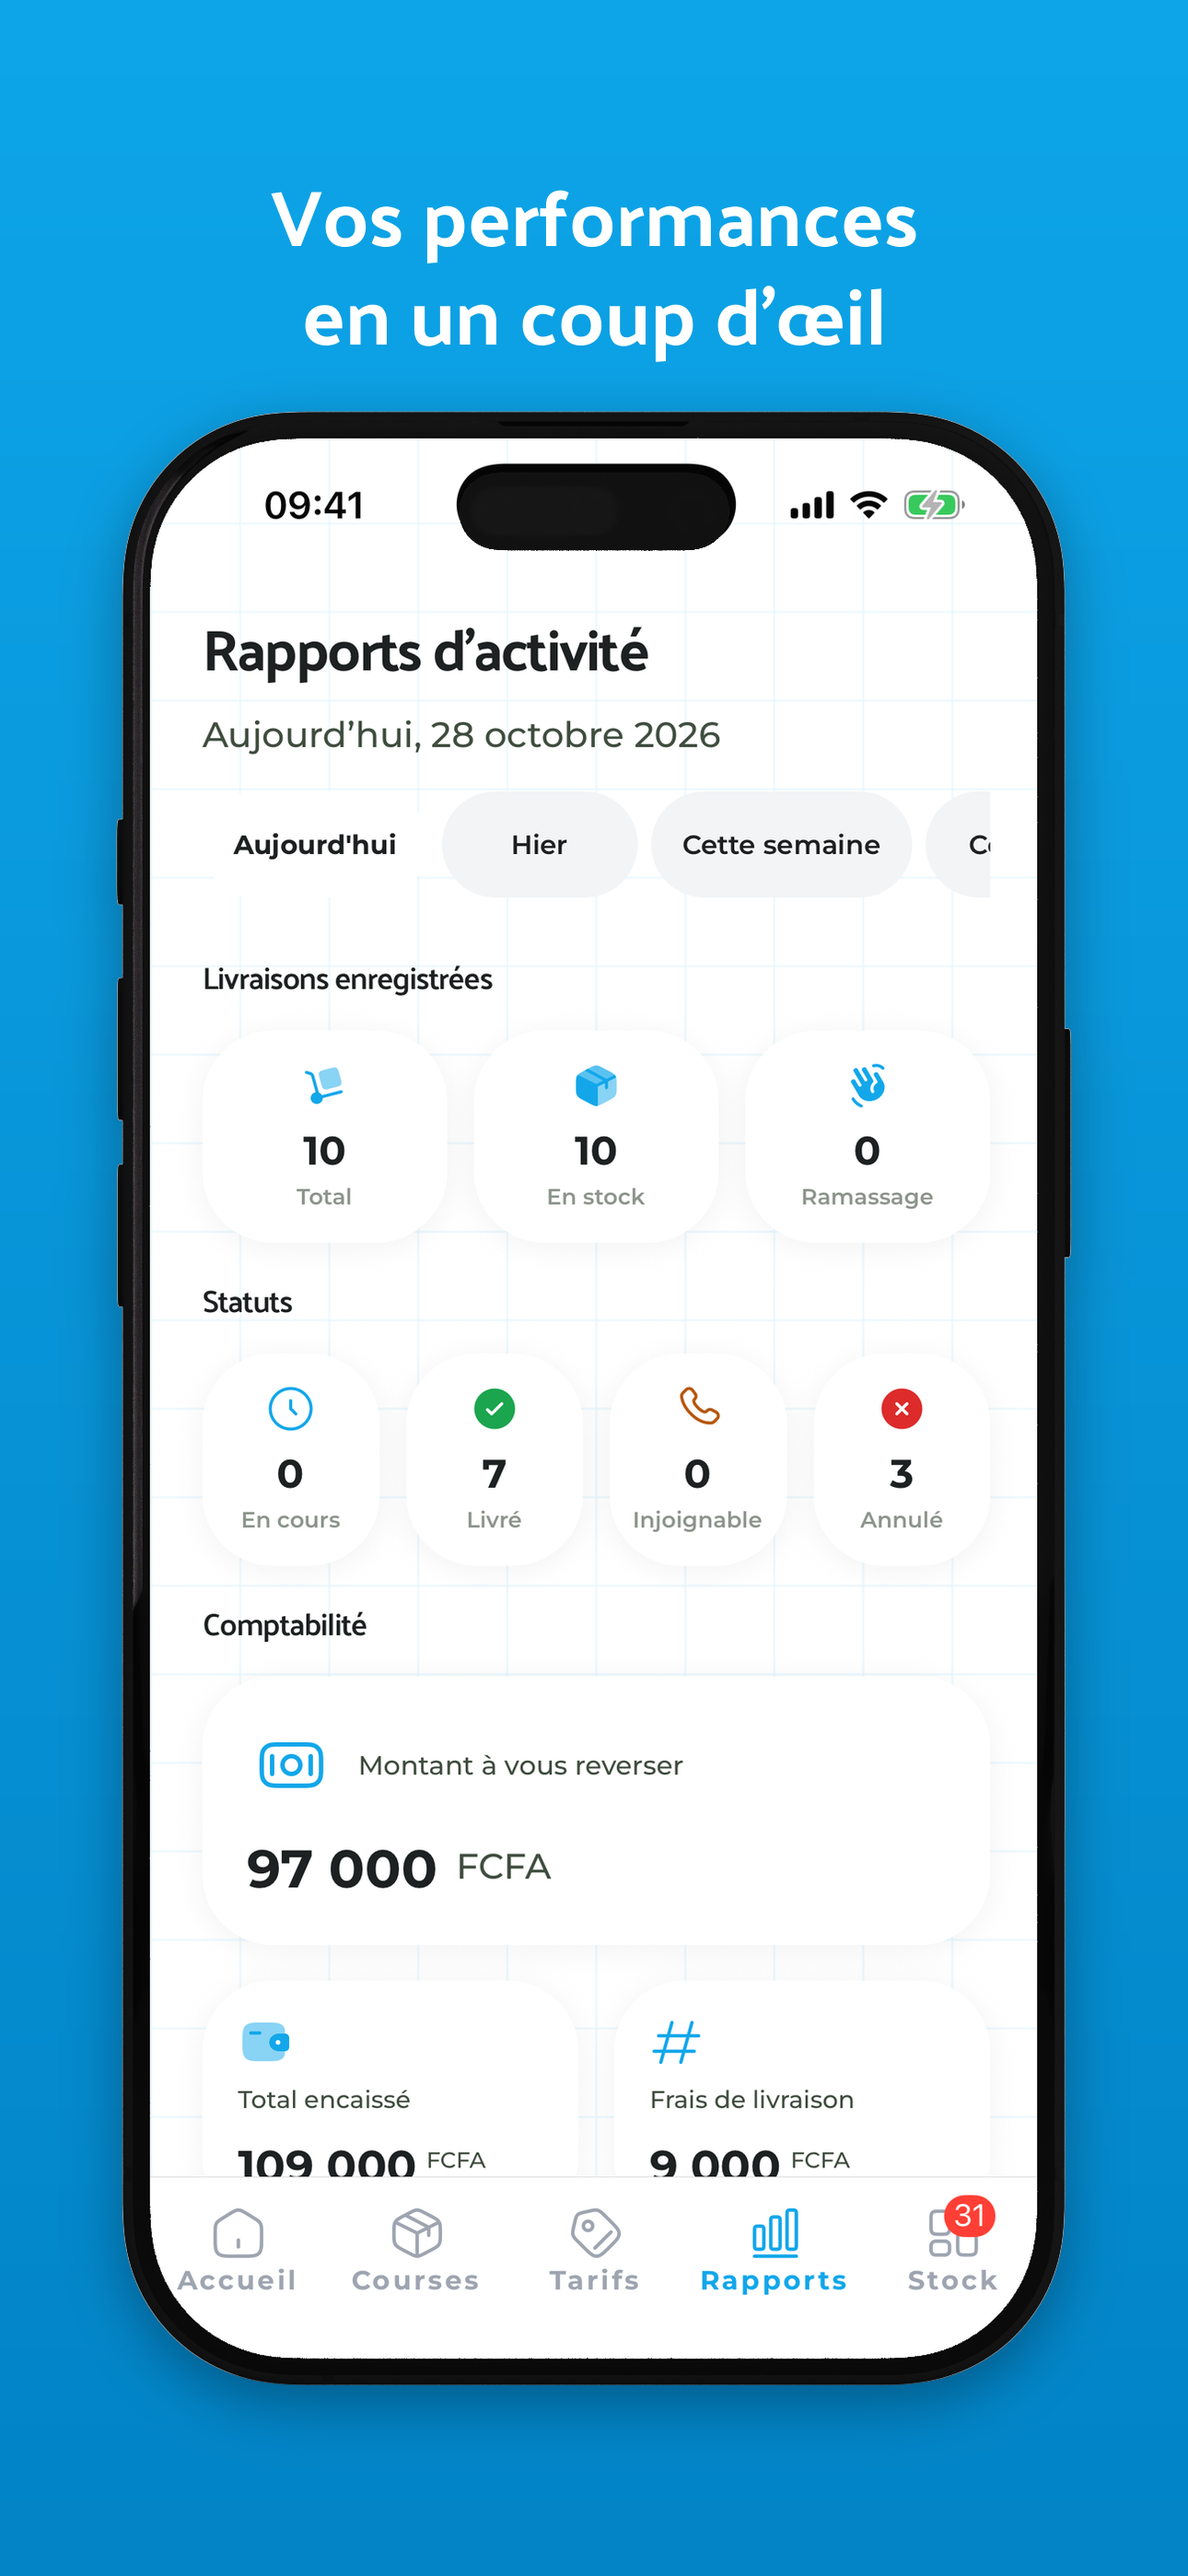
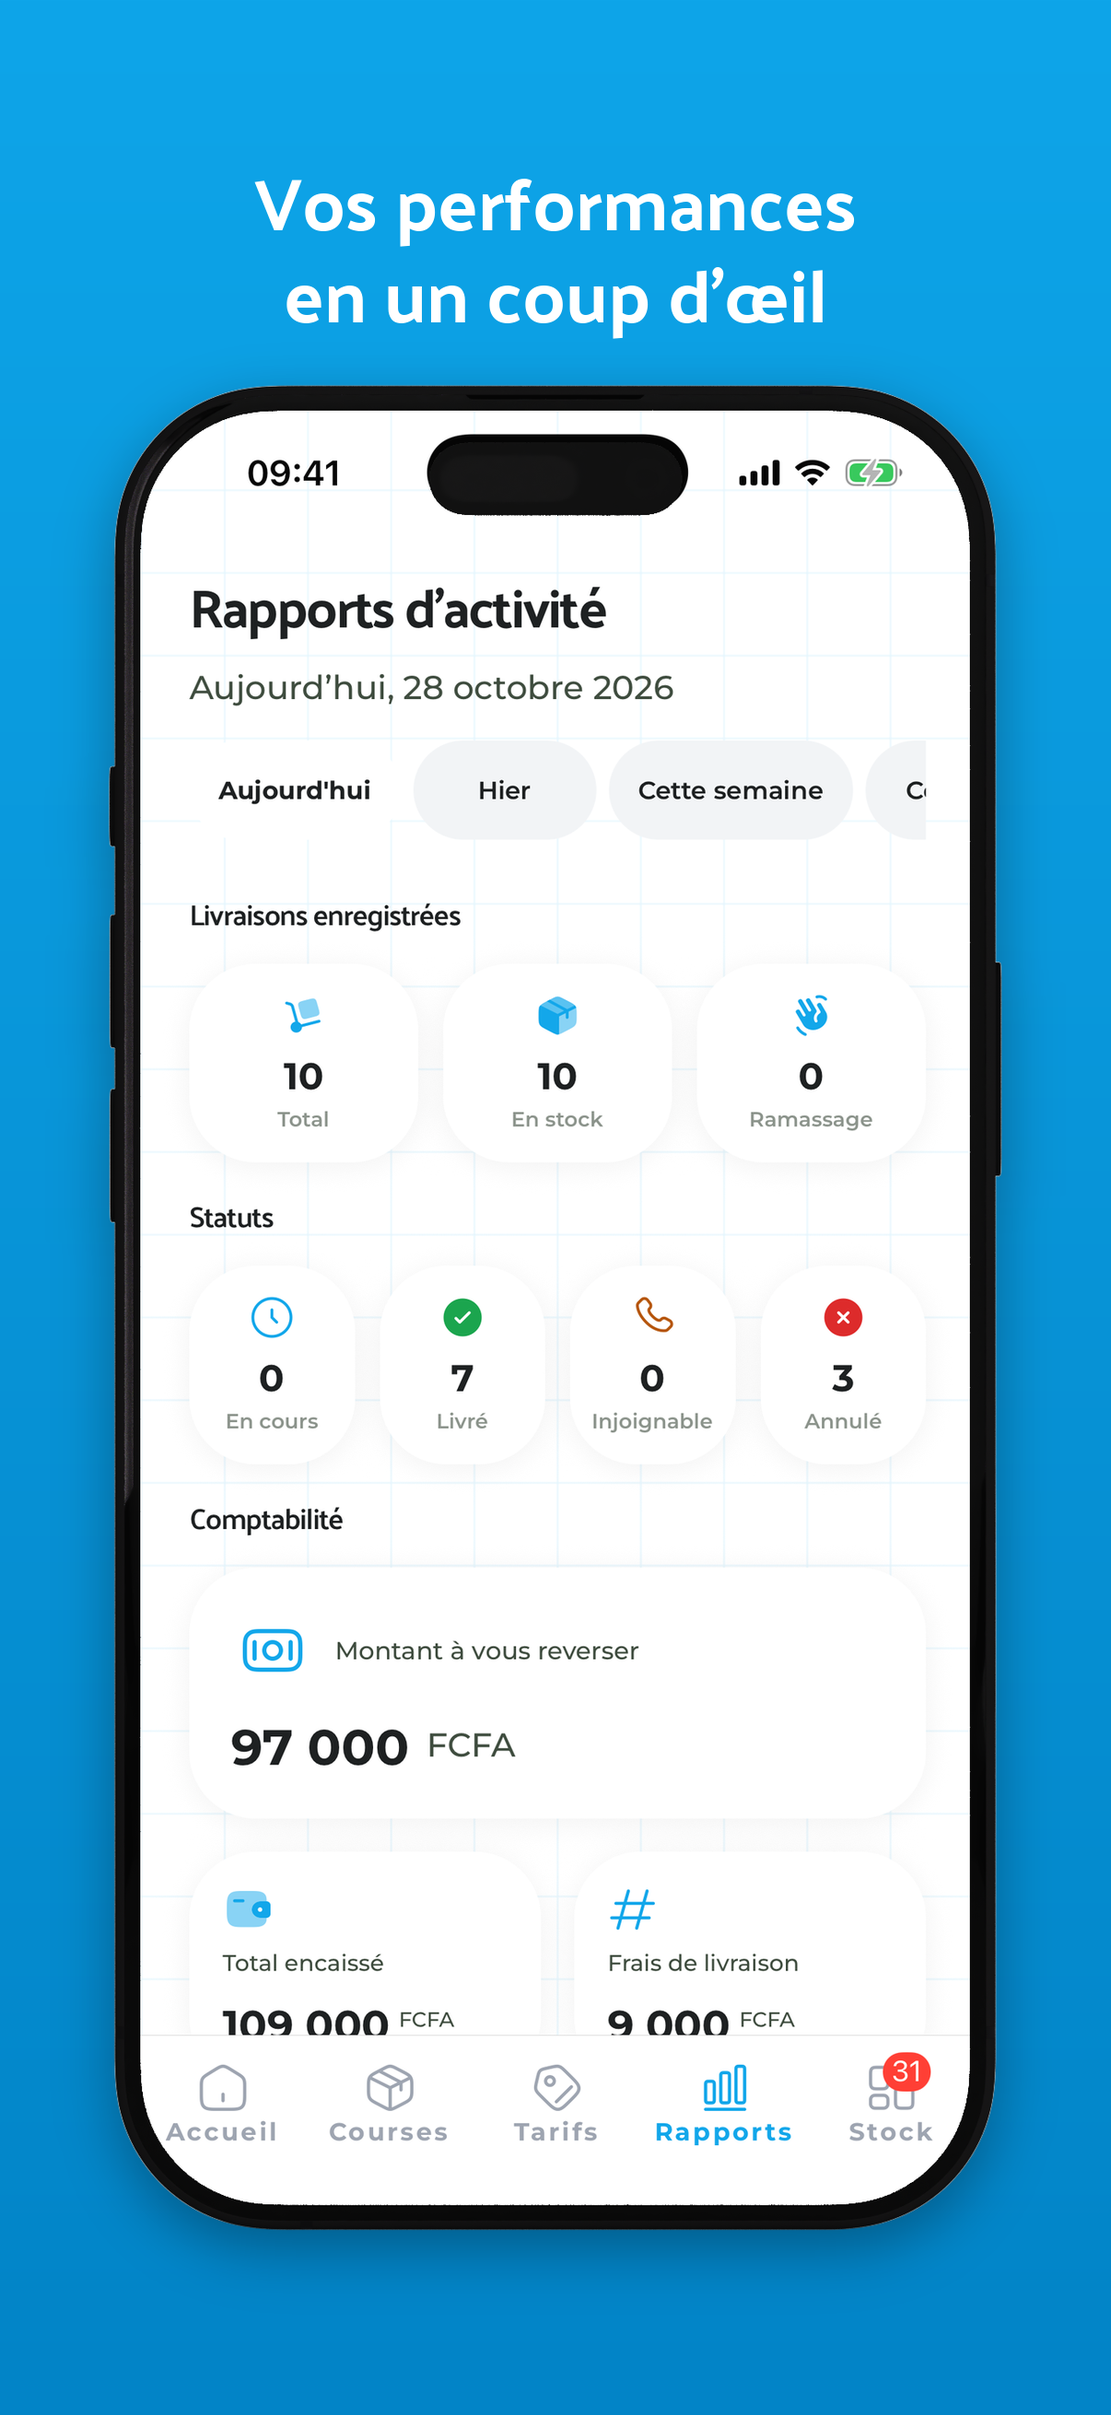
fix(store): emit App Store screenshots at currently accepted sizes
App Store Connect rejected 1290x2796; the medium-display slot takes
1206x2622 and the large-display slot 1320x2868. ios/ is now the medium
set and ios-large/ the 6.9-inch set.

diff --git a/sreenshots/compose_store.py b/sreenshots/compose_store.py
@@ -20,7 +20,8 @@ from psd_tools import PSDImage
 
 ROOT = os.path.dirname(os.path.abspath(__file__))
 RAW = os.path.join(ROOT, "store")
-OUT_IOS = os.path.join(ROOT, "store-final", "ios")
+OUT_IOS = os.path.join(ROOT, "store-final", "ios")          # 6.1"/6.3" medium display
+OUT_IOS_LARGE = os.path.join(ROOT, "store-final", "ios-large")  # 6.9" large display
 OUT_PLAY = os.path.join(ROOT, "store-final", "play")
 
 PSD_IPHONE = os.path.expanduser("~/Desktop/Free_iPhone_16_Mockup_5.psd")
@@ -245,6 +246,7 @@ def feature_graphic():
 
 def main():
     os.makedirs(OUT_IOS, exist_ok=True)
+    os.makedirs(OUT_IOS_LARGE, exist_ok=True)
     os.makedirs(OUT_PLAY, exist_ok=True)
 
     for i, (name, caption) in enumerate(SHOTS, start=1):
@@ -252,13 +254,17 @@ def main():
         raw = os.path.join(RAW, name)
         slug = os.path.splitext(name)[0].split("-", 1)[1]
 
-        compose(raw, caption, style, (1290, 2796), 86, 1040, MOCK_IPHONE).save(
+        # App Store Connect accepted sizes: 1206x2622 (6.1"/6.3") and 1320x2868 (6.9")
+        compose(raw, caption, style, (1206, 2622), 80, 972, MOCK_IPHONE).save(
             os.path.join(OUT_IOS, f"{i:02d}-{slug}.png")
+        )
+        compose(raw, caption, style, (1320, 2868), 88, 1064, MOCK_IPHONE).save(
+            os.path.join(OUT_IOS_LARGE, f"{i:02d}-{slug}.png")
         )
         compose(raw, caption, style, (1080, 1920), 58, 700, MOCK_SAMSUNG, crop_top=IOS_STATUS_BAR_CROP).save(
             os.path.join(OUT_PLAY, f"{i:02d}-{slug}.png")
         )
-        print(f"{i:02d}-{slug}: ios + play")
+        print(f"{i:02d}-{slug}: ios + ios-large + play")
 
     feature_graphic().save(os.path.join(OUT_PLAY, "feature-graphic.png"))
     print("feature-graphic: play")
